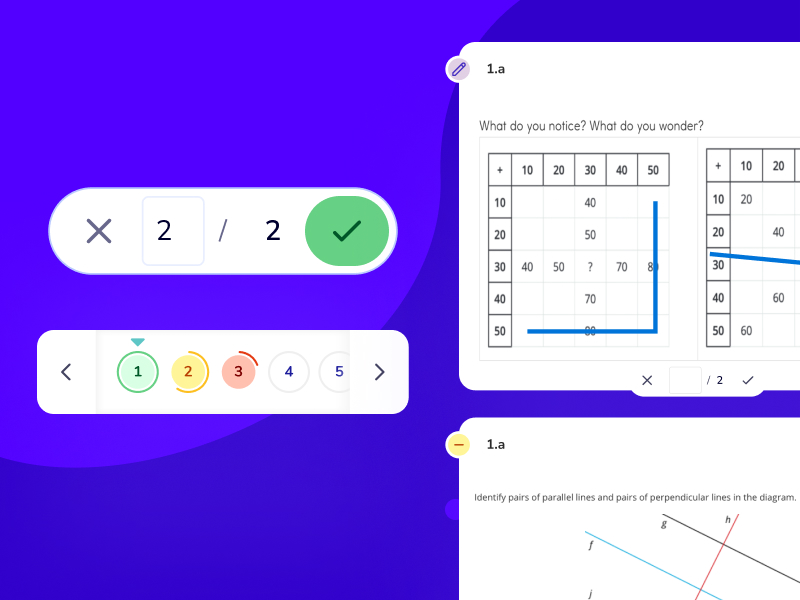
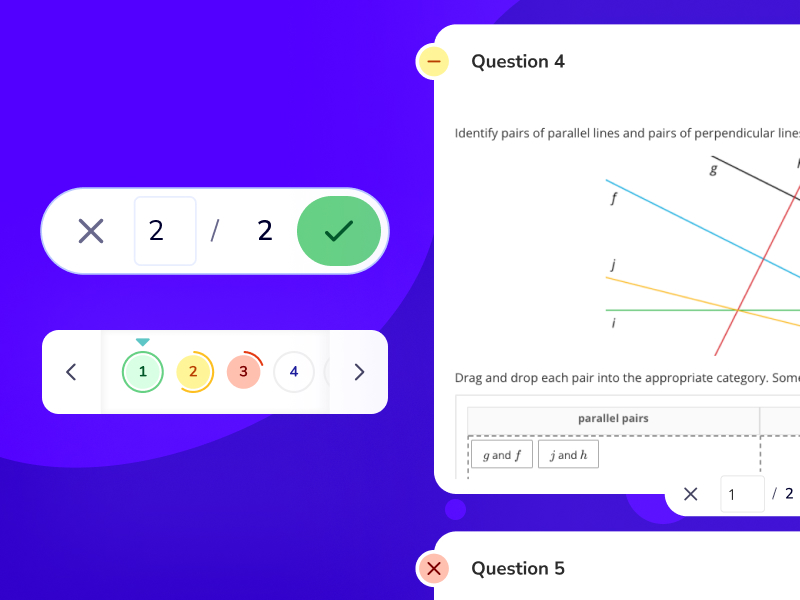
Bunch of tweaks to spacing and sizing

diff --git a/src/projects/Grading.js b/src/projects/Grading.js
@@ -1,66 +1,147 @@
-import React from 'react';
-import { ContentWrapper } from '../components/Index';
+import React from "react";
+import { ContentWrapper } from "../components/Index";
 
 function Grading(props) {
   return (
     <ContentWrapper>
-      <h2 className="text-5xl text-white font-display">Grading Assignments</h2>
-      <p className="mt-2 font-bold text-brand-secondary">LearnZillion</p>
-      <ul className="flex mt-2 space-x-4 text-xs text-gray">
+      <h2 className="text-5xl tracking-tight text-white font-display">
+        An improved grading experience
+      </h2>
+      <p className="mt-2 font-semibold tracking-wide text-brand-secondary">
+        IL Classroom
+      </p>
+      <ul className="flex mt-2 space-x-4 text-xs text-white opacity-60">
         <li>User research</li>
         <li>Design Thinking</li>
         <li>Prototyping</li>
         <li></li>
       </ul>
-      <img className="mt-10" src={process.env.PUBLIC_URL + "/img/manualgrading-bg.jpg"} alt="Redesigned reports page"/>
-      <div className="mt-10 max-w-prose">
-        <h3 className="text-3xl text-brand-secondary font-display">The Challenge</h3>
-        <p className="mt-4 leading-5"> When I began working at LearnZillion, our assessments allowed for single-part questions. We switched to a 3rd-party assessment authoring platform which led to 
+      <img
+        className="mt-20"
+        src={process.env.PUBLIC_URL + "/img/grading/grading-main.jpg"}
+        alt="Redesigned reports page"
+      />
+      <div className="mt-20 max-w-prose">
+        <h3 className="text-4xl text-brand-secondary font-display">
+          The Challenge
+        </h3>
+        <p className="mt-6 leading-7">
+          {" "}
+          When I began working at LearnZillion, our assessments allowed for
+          single-part questions. We switched to a 3rd-party assessment authoring
+          platform which led to
         </p>
-        <p className="mt-8 leading-5">
-          After integrating a feature-rich assessment authoring platform, LearnZillion broke free from only being able to have one item per question. Instead, a single question could now have multiple parts which could be any combination of auto-graded and/or manually graded.</p>
-        <p className="mt-8 leading-5">We needed a way to quickly let see teachers how their classes are doing, while allowing them to easily see which questions required their attention.</p>
+        <p className="mt-6 leading-7">
+          After integrating a feature-rich assessment authoring platform,
+          LearnZillion broke free from only being able to have one item per
+          question. Instead, a single question could now have multiple parts
+          which could be any combination of auto-graded and/or manually graded.
+        </p>
+        <p className="mt-6 leading-7">
+          We needed a way to quickly let see teachers how their classes are
+          doing, while allowing them to easily see which questions required
+          their attention.
+        </p>
       </div>
       <div className="mt-16">
-        <img src={process.env.PUBLIC_URL + "/img/grading-original.png"} alt="Redesigned reports page"/>
+        <img
+          src={process.env.PUBLIC_URL + "/img/grading-original.png"}
+          alt="Redesigned reports page"
+        />
         <span className="mt-8 text-xs text-gray">Original Design</span>
       </div>
-      <div className="mt-10 max-w-prose">
-        <h3 className="text-3xl text-brand-secondary font-display">User insights</h3>
-          <p className="mt-8"> On average, teachers spent 12 hours each week on non-compensated school-related activities such as grading papers, bus duty, and club advising. <span className="text--credit">- National Education Association</span></p>
-          <p className="mt-4">We needed a way to quickly let see teachers how their classes are doing, while allowing them to easily see which questions required their attention.</p>
+      <div className="mt-20 max-w-prose">
+        <h3 className="text-4xl text-brand-secondary font-display">
+          User insights
+        </h3>
+        <p className="mt-8">
+          {" "}
+          On average, teachers spent 12 hours each week on non-compensated
+          school-related activities such as grading papers, bus duty, and club
+          advising.{" "}
+          <span className="text--credit">- National Education Association</span>
+        </p>
+        <p className="mt-4">
+          We needed a way to quickly let see teachers how their classes are
+          doing, while allowing them to easily see which questions required
+          their attention.
+        </p>
       </div>
-      <div className="mt-10 max-w-prose">
-        <h3 className="text-3xl text-brand-secondary font-display">Concerns</h3>
+      <div className="mt-20 max-w-prose">
+        <h3 className="text-4xl text-brand-secondary font-display">Concerns</h3>
         <div className="mt-4">
-          <p className="mt-8">Reports listed all classes together. This made it difficult
-            for teachers to distinguish how their individual classrooms were
-            performing, and prevented teachers from knowing which class each student belonged to.
+          <p className="mt-8">
+            Reports listed all classes together. This made it difficult for
+            teachers to distinguish how their individual classrooms were
+            performing, and prevented teachers from knowing which class each
+            student belonged to.
           </p>
-          <p className="mt-4">Assignment questions can now be multi-part. How do we display
+          <p className="mt-4">
+            Assignment questions can now be multi-part. How do we display
             completion, scoring, and need for manual grading?
           </p>
         </div>
       </div>
-      <div className="mt-10 max-w-prose">
-        <h3 className="text-3xl text-brand-secondary font-display">Ideation</h3>
-        <p className="mt-8">I began sketching ways to funnel teachers to the reports page when an assignment required their attention. Concepts included the use of notifications, visual cues in the site nav, or allowing for the creation of due-dates when assigning. However, a restriction of our third party integration limited us to only being able to pull 50 student reports at a time. Once there, a system of colors and shapes provided a quick reference to student performance instead of misleading scores. Allowing teachers to toggle grading by question instead of by student saved teachers time, allowing them to focus additional learning where necessary</p>
+      <div className="mt-20 max-w-prose">
+        <h3 className="text-4xl text-brand-secondary font-display">Ideation</h3>
+        <p className="mt-8">
+          I began sketching ways to funnel teachers to the reports page when an
+          assignment required their attention. Concepts included the use of
+          notifications, visual cues in the site nav, or allowing for the
+          creation of due-dates when assigning. However, a restriction of our
+          third party integration limited us to only being able to pull 50
+          student reports at a time. Once there, a system of colors and shapes
+          provided a quick reference to student performance instead of
+          misleading scores. Allowing teachers to toggle grading by question
+          instead of by student saved teachers time, allowing them to focus
+          additional learning where necessary
+        </p>
       </div>
-      <div className="flex flex-wrap mt-10">
-        <img src={process.env.PUBLIC_URL + "/img/gradingflow-sketch.png"} alt="Redesigned reports page"/>
-        <img src={process.env.PUBLIC_URL + "/img/gradingmodal-sketch.png"} alt="Redesigned reports page"/>
-        <img src={process.env.PUBLIC_URL + "/img/gradingicon-sketch.png"} alt="Redesigned reports page"/>
+      <div className="flex flex-wrap items-stretch gap-4 mt-20">
+        <img
+          className="flex-1 sm:w-4/12"
+          src={process.env.PUBLIC_URL + "/img/gradingflow-sketch.png"}
+          alt="Redesigned reports page"
+        />
+        <img
+          className="flex-1 sm:w-4/12"
+          src={process.env.PUBLIC_URL + "/img/gradingmodal-sketch.png"}
+          alt="Redesigned reports page"
+        />
+        <img
+          className="flex-1 sm:w-4/12"
+          src={process.env.PUBLIC_URL + "/img/gradingicon-sketch.png"}
+          alt="Redesigned reports page"
+        />
       </div>
-      <div className="mt-10 max-w-prose">
-        <h3 className="text-3xl text-brand-secondary font-display">The Outcome</h3>
-        <p className="mt-8">The final functionality of this feature included the ability to switch between grading by student, or by question. The ability to switch to grading by question allowed for teachers to quickly grade all items that required their attention. Giving them more time to prepare for subsequent lessons, or to help those students not at expectation. Following up with users after release we learned that teachers had no difficulty discerning which items required their manual review.</p>
+      <div className="mt-20 max-w-prose">
+        <h3 className="text-4xl text-brand-secondary font-display">
+          The Outcome
+        </h3>
+        <p className="mt-8">
+          The final functionality of this feature included the ability to switch
+          between grading by student, or by question. The ability to switch to
+          grading by question allowed for teachers to quickly grade all items
+          that required their attention. Giving them more time to prepare for
+          subsequent lessons, or to help those students not at expectation.
+          Following up with users after release we learned that teachers had no
+          difficulty discerning which items required their manual review.
+        </p>
       </div>
-      <div className="mt-10">
-        <img className="w-full" src={process.env.PUBLIC_URL + "/img/grading_table-row.png"} alt="Redesigned reports page"/>
-        <img className="w-full" src={process.env.PUBLIC_URL + "/img/grading-modal.png"} alt="Redesigned reports page"/>
+      <div className="mt-20">
+        <img
+          className="w-full"
+          src={process.env.PUBLIC_URL + "/img/grading_table-row.png"}
+          alt="Redesigned reports page"
+        />
+        <img
+          className="w-full"
+          src={process.env.PUBLIC_URL + "/img/grading-modal.png"}
+          alt="Redesigned reports page"
+        />
       </div>
     </ContentWrapper>
-  )
+  );
 }
 
 export default Grading;

diff --git a/src/components/ProjectHeading.js b/src/components/ProjectHeading.js
@@ -1,47 +1,22 @@
-import React from 'react';
-import Thumbnail from './Thumbnail.js'; // Import the Thumbnail component
-import '../App.css';
+import React from "react";
+import "../App.css";
 
-function Projects(props) {
+function ProjectHeading(props) {
   return (
-    <div className="grid grid-cols-1 gap-4 p-6 md:grid-cols-2 lg:grid-cols-3">
-      {/*  Digital Menus */}
-      <Thumbnail
-          link="/untappd-trial"
-          image="img/utfb-trial/Freetrial-thumb.jpg"
-          title="Untappd Self Sign-up"
-          category=""
-        />
-      {/*  Digital Menus */}
-        <Thumbnail
-          link="/untappd-digital-menus"
-          image="img/firetv/firetv_thumb.jpg"
-          title="Untappd Digital Menus"
-          category=""
-        />
-        {/*  Virtual Fest */}
-        <Thumbnail
-          link="/virtual-fest"
-          image="img/ut/v-fest/thumb.jpg"
-          title="Untappd Virtual Fest"
-          category=""
-        />
-        {/*  Grading */}
-        <Thumbnail
-          link="/grading"
-          image="img/grading-thumb.png"
-          title="Assignment grading"
-          category=""
-        />
-        {/*  Illustrations */}
-        <Thumbnail
-          link="/illustration"
-          image="img/illustrations/dietrying.jpg"
-          title="Illustrations"
-          category=""
-        />
+    <div class="col-span-2">
+      <h2 className="text-5xl tracking-tight text-white font-display">
+        {props.title}
+      </h2>
+      <p className="mt-2 font-semibold tracking-wide text-brand-secondary">
+        {props.client}
+      </p>
+      <ul className="flex mt-2 space-x-4 text-xs text-white opacity-60">
+        <li>User research</li>
+        <li>Design Thinking</li>
+        <li>Prototyping</li>
+      </ul>
     </div>
-  )
+  );
 }
 
 export default Projects;

diff --git a/src/components/Projects.js b/src/components/Projects.js
@@ -10,42 +10,42 @@ function Projects(props) {
         link="/grading"
         image="img/grading/ui-thumb.jpg"
         title="Speed grading"
-        category=""
+        altLabel="UI components that were created to improve the grading experience at Imagine Learning Classroom"
       />
-      {/*  Grading */}
+      {/*  Annotation */}
       <Thumbnail
         link="/annotation"
         image="img/annotation/ui-thumb.jpg"
         title="Annotation"
-        category=""
+        altLabel="Tool illustrations from the Annotation feature for Imagine Learning Classroom"
       />
       {/*  Digital Menus */}
       <Thumbnail
         link="/untappd-trial"
         image="/img/ut/trial/hero.jpg"
         title="Untappd Self Sign-up"
-        category=""
+        altLabel="Screenshots of the Untappd for Business free trial experience"
       />
       {/*  Digital Menus */}
       <Thumbnail
         link="/untappd-digital-menus"
         image="img/firetv/firetv_thumb.jpg"
         title="Untappd Digital Menus"
-        category=""
+        altLabel="Untappd Digital Board displaying the Menu Id from the Amazon Fire TV app"
       />
       {/*  Virtual Fest */}
       <Thumbnail
         link="/virtual-fest"
         image="img/ut/v-fest/thumb.jpg"
         title="Untappd Virtual Fest"
-        category=""
+        altLabel="Website design and marketing adds for the Untappd Virtual Festival campaign"
       />
       {/*  Illustrations */}
       <Thumbnail
         link="/illustration"
         image="img/illustrations/dietrying.jpg"
         title="Illustrations"
-        category=""
+        altLabel="Illustration of a headstone that reads Die Trying"
       />
     </div>
   );

diff --git a/src/components/Thumbnail.js b/src/components/Thumbnail.js
@@ -10,10 +10,10 @@ function Thumbnail(props) {
     >
       <img
         src={process.env.PUBLIC_URL + "/" + props.image}
-        alt="Project Image"
+        alt={props.altLabel}
       />
-      <div className="absolute transition-transform duration-500 -bottom-1 translate-y-7 right-4 group-hover:translate-y-0">
-        <div className="px-4 pt-2 pb-1 text-xs font-semibold text-white rounded-tr-xl rounded-tl-xl bg-brand-primary project-title">
+      <div className="absolute transition-transform duration-500 translate-y-10 -bottom-0.5 right-4 group-hover:translate-y-0">
+        <div className="px-4 pt-2 pb-1 font-semibold text-white rounded-tr-xl rounded-tl-xl bg-brand-primary project-title">
           {props.title}
         </div>
         <div className="">{props.category}</div>
